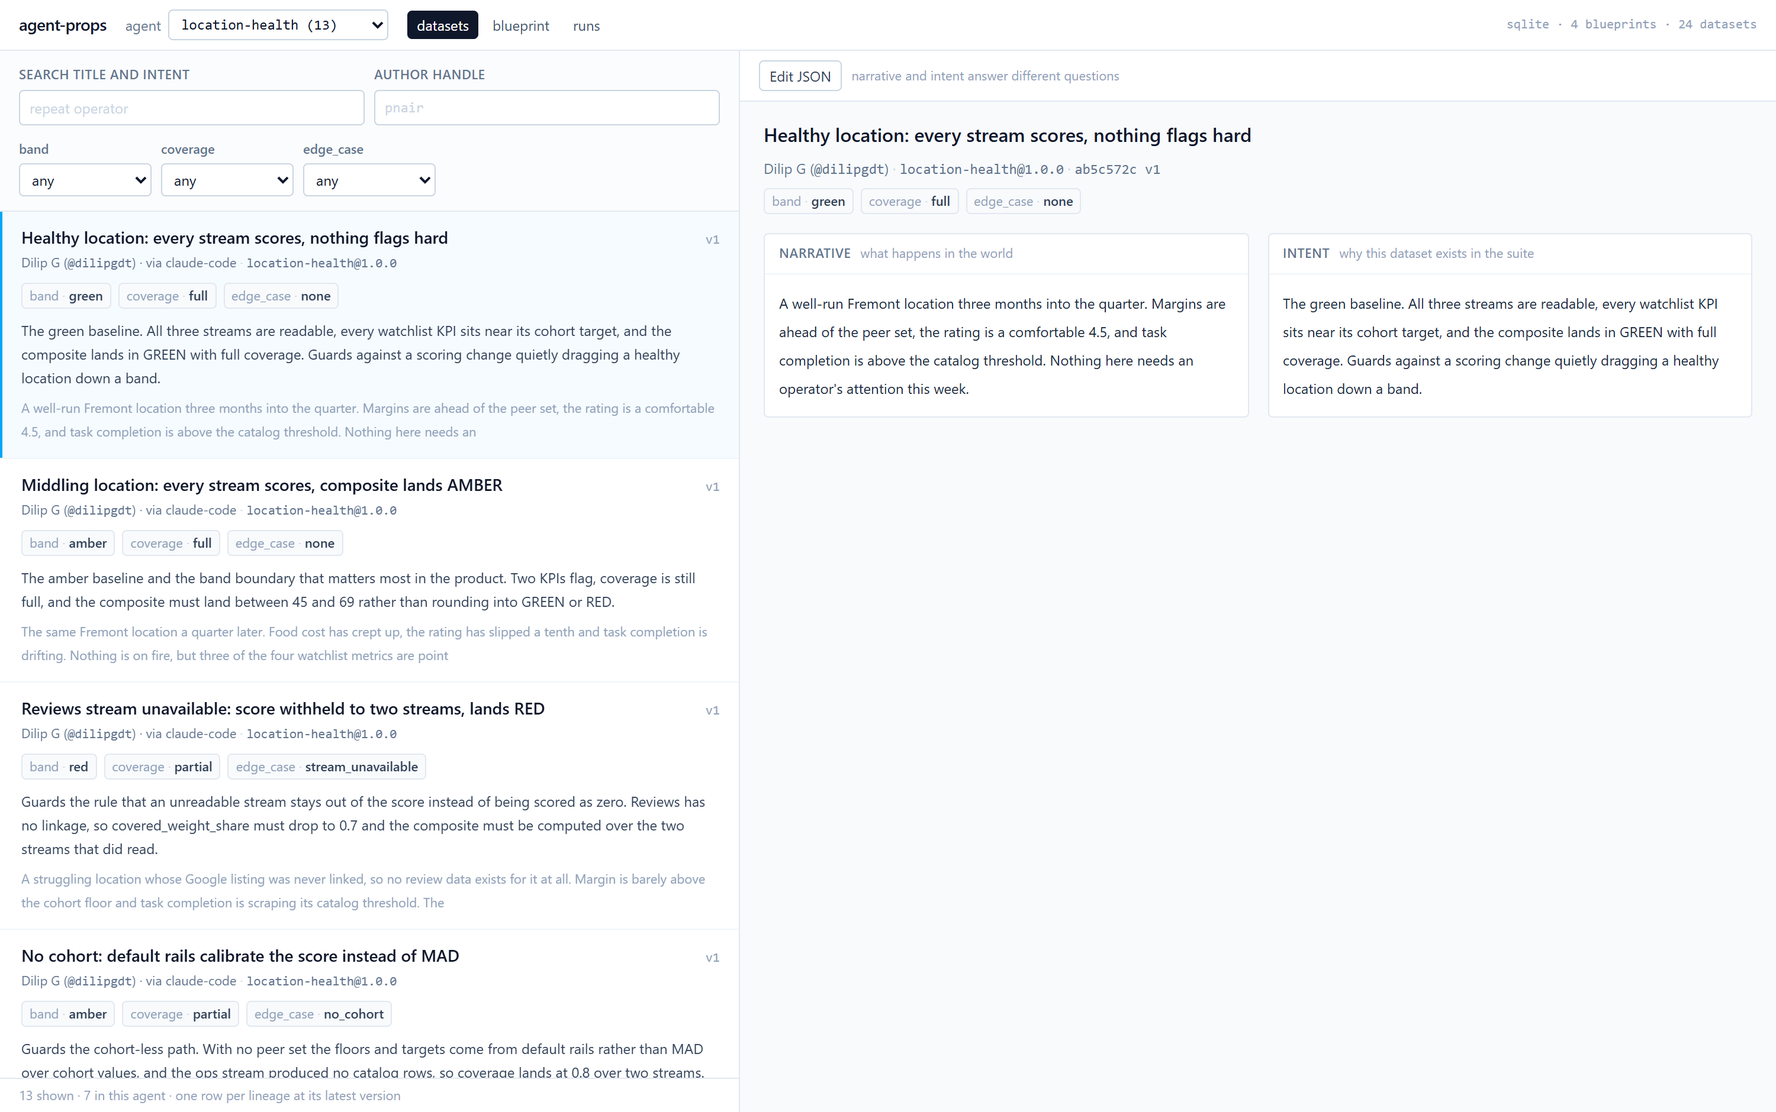
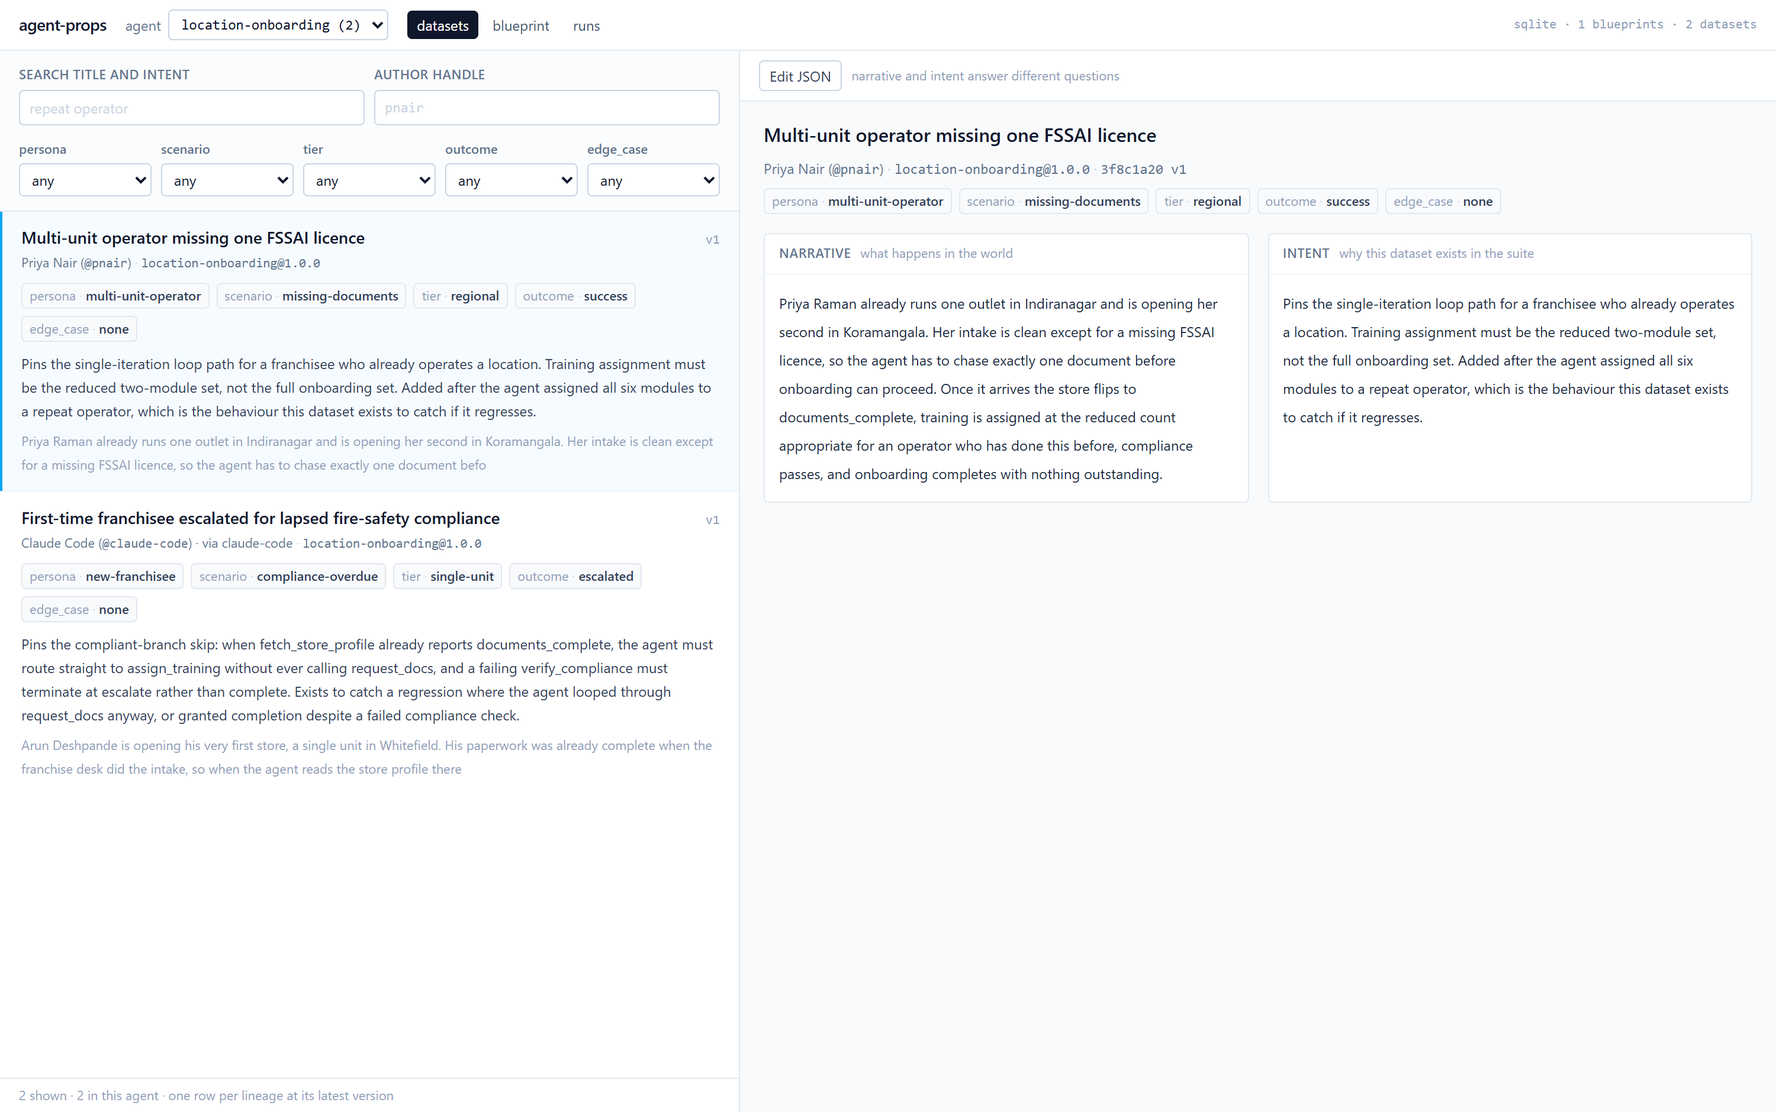
chore: remove company identifiers and machine-specific paths
Ahead of publishing. Three passes:

The worked example's tool namespace becomes acme.* - nobody mistakes acme for
a real vendor. Ruling R-44 pins tests/fixtures byte-exact to
docs/worked-example.md, so both sides moved together and that guard is what
proved it; 58 occurrences across 17 files.

Prose naming the owning company and its AI unit becomes the role each was
standing for. docs/prd.md and docs/build-handoff.md.

Absolute paths to one checkout become /path/to/agent-props, with a line saying
so, and the run driver now looks for Chrome in the usual places per platform
before falling back to Playwright's own Chromium - it hardcoded one Windows
path, which made the skill unusable anywhere else. SKILL.md loses the
"this machine" framing and two stale test counts.

All five README screenshots re-shot from a store seeded only from
tests/fixtures, because the earlier set showed a real agent's tool names and a
real author handle.

diff --git a/.claude/skills/run-agent-props/driver.py b/.claude/skills/run-agent-props/driver.py
@@ -31,12 +31,25 @@ from pathlib import Path
 WEB = "http://127.0.0.1:5173"
 SERVICE_PORT = 8000
 WEB_PORT = 5173
-# NOT /tmp: on this host `/tmp` resolves differently under Git Bash than under
-# Python, so a screenshot the driver wrote could not be found by a shell `ls`.
-# Repo-relative is unambiguous for both. Gitignored.
+# NOT /tmp: under Git Bash on Windows, `/tmp` resolves to a different
+# directory in the shell than it does in Python, so a screenshot the driver
+# wrote could not be found by a shell `ls`. Repo-relative is unambiguous on
+# every platform. Gitignored.
 SHOTS = Path(__file__).resolve().parents[3] / ".shots"
-# The Chrome that ships with Windows/WSL hosts. Override with AGENTPROPS_CHROME.
-CHROME = "C:/Program Files/Google/Chrome/Application/chrome.exe"
+# Where an already-installed Chrome usually lives, per platform. Tried in order;
+# AGENTPROPS_CHROME overrides all of them, and if none exists the driver falls
+# back to Playwright's own bundled Chromium (`playwright install chromium`).
+# Using a browser already on disk is only an optimisation - it avoids a second
+# ~150 MB download - so it must not be a requirement.
+CHROME_CANDIDATES = (
+    "C:/Program Files/Google/Chrome/Application/chrome.exe",
+    "C:/Program Files (x86)/Google/Chrome/Application/chrome.exe",
+    "/Applications/Google Chrome.app/Contents/MacOS/Google Chrome",
+    "/usr/bin/google-chrome",
+    "/usr/bin/chromium",
+    "/usr/bin/chromium-browser",
+    "/snap/bin/chromium",
+)
 
 
 def listening(port: int) -> bool:
@@ -59,15 +72,32 @@ def require_up() -> None:
         )
 
 
+def chrome_path() -> str | None:
+    """An installed Chrome, or None to let Playwright use its own Chromium.
+
+    Returns None rather than raising when nothing matches: a missing system
+    Chrome is not an error, it just means Playwright downloads one. Raising here
+    would make the driver unusable on any machine but the one it was written on.
+    """
+    import os
+
+    override = os.environ.get("AGENTPROPS_CHROME")
+    if override:
+        return override
+    for candidate in CHROME_CANDIDATES:
+        if Path(candidate).exists():
+            return candidate
+    return None
+
+
 def browser(pw):
     # `pw` is untyped on purpose: playwright is an ephemeral --with install,
     # so importing its types at module scope would break `up`, which must run
     # without it.
-    import os
-
+    found = chrome_path()
     return pw.chromium.launch(
-        executable_path=os.environ.get("AGENTPROPS_CHROME", CHROME),
         headless=True,
+        **({"executable_path": found} if found else {}),
     )
 
 

diff --git a/tests/unit/test_service_resolution.py b/tests/unit/test_service_resolution.py
@@ -7,7 +7,7 @@ without walking it there.
 
 The property M8's script exists to prove is
 :func:`test_one_tool_name_resolves_to_two_nodes_depending_on_position`, and it
-asserts **both** directions in one test on purpose: ``delightree.stores.get``
+asserts **both** directions in one test on purpose: ``acme.stores.get``
 must resolve to ``fetch_store_profile`` early and to ``recheck_store`` after the
 loop. Either half passing alone would be satisfied by a resolver that always
 answered the same node.
@@ -29,11 +29,11 @@ from agentprops.service.resolution import candidates_for, head_of, resolve, succ
 #: ``fetch_store_profile`` and on ``recheck_store``. Position is the only thing
 #: that can tell them apart, which is why the run id matters even for tool-name
 #: addressing (PRD 5.5's rule 3).
-REPEATED_TOOL = "delightree.stores.get"
+REPEATED_TOOL = "acme.stores.get"
 
 #: A tool name exactly one node declares, so it resolves at step 2 without any
 #: position at all.
-UNIQUE_TOOL = "delightree.docs.request"
+UNIQUE_TOOL = "acme.docs.request"
 
 FROZEN_AT = datetime(2026, 9, 8, 12, 0, 0, tzinfo=UTC)
 
@@ -106,7 +106,7 @@ def test_a_unique_tool_name_resolves_without_a_position(blueprint: Blueprint) ->
 
 
 def test_an_unknown_tool_name_is_rt_e02(blueprint: Blueprint) -> None:
-    resolved, findings = resolve(blueprint, run_at(), tool_name="delightree.stores.list")
+    resolved, findings = resolve(blueprint, run_at(), tool_name="acme.stores.list")
     assert resolved is None
     assert [finding.rule for finding in findings] == [RT_E02]
     assert findings[0].pointer == "/tool_name"
@@ -186,10 +186,10 @@ def test_two_candidates_reachable_in_one_hop_are_also_rt_e01(
     document = copy.deepcopy(blueprint_document)
     for node in document["nodes"]:
         if node["id"] in {"request_docs", "assign_training"}:
-            node["tool_name"] = "delightree.both.ways"
+            node["tool_name"] = "acme.both.ways"
     graph = Blueprint.model_validate(document)
 
-    resolved, findings = resolve(graph, run_at("check_docs"), tool_name="delightree.both.ways")
+    resolved, findings = resolve(graph, run_at("check_docs"), tool_name="acme.both.ways")
     assert resolved is None
     assert [finding.rule for finding in findings] == [RT_E01]
     assert findings[0].context["candidates"] == ["request_docs", "assign_training"]

diff --git a/tests/unit/test_service_run_writes.py b/tests/unit/test_service_run_writes.py
@@ -76,7 +76,7 @@ RUN_ID = "m8-priya-run"
 PRIYA = "3f8c1a20-0000-4000-8000-000000000001"
 
 #: The tool name ``fetch_store_profile`` and ``recheck_store`` share.
-REPEATED_TOOL = "delightree.stores.get"
+REPEATED_TOOL = "acme.stores.get"
 
 POOL_NODE = "request_docs"
 POOL_LENGTH = len(load_document("datasets/priya-missing-docs.json")["pools"][POOL_NODE])
@@ -149,7 +149,7 @@ def test_the_record_key_is_the_resolved_one(started: ServiceContext) -> None:
     """Ruling R-64's "the same key means the same step", on the write side.
 
     The step is fetched by **tool name** from the entry node - where
-    ``delightree.stores.get`` resolves to ``fetch_store_profile`` - and recorded
+    ``acme.stores.get`` resolves to ``fetch_store_profile`` - and recorded
     by **node id**. One step, one row, one actual. A ``record_step`` that keyed
     on the argument shape rather than on the resolved node would report
     ``AP-004`` here.
@@ -280,7 +280,7 @@ def test_the_unserved_pointer_follows_the_argument_the_caller_used(
     request - and ``resolved_node_id`` in the context is how the caller learns
     which node the key was built from.
     """
-    reply = record(started, {"compliant": True}, tool_name="delightree.compliance.check")
+    reply = record(started, {"compliant": True}, tool_name="acme.compliance.check")
     assert rules(reply) == ["AP-004"]
     finding = findings(reply)[0]
     assert finding.pointer == "/tool_name"

diff --git a/tests/unit/test_client_run.py b/tests/unit/test_client_run.py
@@ -274,13 +274,13 @@ async def test_the_two_clients_send_identical_requests() -> None:
     asynchronous = async_client(async_recorder)
 
     sync.run_start({"dataset_id": "d"}, run_class="eval")
-    sync.fetch_step(tool_name="delightree.stores.get")
+    sync.fetch_step(tool_name="acme.stores.get")
     sync.fetch_step(node_id="request_docs", iteration=1)
     sync.record_step({"a": 1}, node_id="request_docs", iteration=1)
     sync.run_finish({"onboarding_status": "complete"}, status=STATUS_ABANDONED)
 
     await asynchronous.run_start({"dataset_id": "d"}, run_class="eval")
-    await asynchronous.fetch_step(tool_name="delightree.stores.get")
+    await asynchronous.fetch_step(tool_name="acme.stores.get")
     await asynchronous.fetch_step(node_id="request_docs", iteration=1)
     await asynchronous.record_step({"a": 1}, node_id="request_docs", iteration=1)
     await asynchronous.run_finish({"onboarding_status": "complete"}, status=STATUS_ABANDONED)

diff --git a/tests/unit/test_runtime_is_read_only.py b/tests/unit/test_runtime_is_read_only.py
@@ -748,12 +748,12 @@ def test_a_whole_runtime_walk_makes_no_world_write(guarded: ServiceContext) -> N
         return runs.fetch_step(guarded, RUN_ID, **arguments)
 
     step(node_id="receive_request")
-    step(tool_name="delightree.stores.get")
+    step(tool_name="acme.stores.get")
     step(node_id="check_docs")
-    step(tool_name="delightree.stores.get")
+    step(tool_name="acme.stores.get")
     step(node_id=POOL_NODE, iteration=0)
     step(node_id=POOL_NODE, iteration=1)
-    step(tool_name="delightree.stores.get")
+    step(tool_name="acme.stores.get")
     step(node_id=POOL_NODE, iteration=2)
     step(node_id=POOL_NODE, iteration=0)
     step(node_id=POOL_NODE, iteration=MAX_STORED_INT + 1)

diff --git a/tests/unit/test_tools_run_contract.py b/tests/unit/test_tools_run_contract.py
@@ -34,7 +34,7 @@ AGENT = "location-onboarding"
 RUN_ID = "m6-wire-run"
 PRIYA = "3f8c1a20-0000-4000-8000-000000000001"
 POOL_NODE = "request_docs"
-REPEATED_TOOL = "delightree.stores.get"
+REPEATED_TOOL = "acme.stores.get"
 
 
 @pytest.fixture
@@ -285,7 +285,7 @@ async def test_record_step_and_run_finish_over_the_wire(seeded: ServiceContext) 
             "record_step",
             run_id=RUN_ID,
             actual={"store_id": "store_bengaluru_04", "franchisee": "priya"},
-            tool_name="delightree.onboarding.intake",
+            tool_name="acme.onboarding.intake",
         )
         assert recorded["ok"] is True
         assert set(recorded["data"]) == {"record"}

diff --git a/src/agentprops/service/resolution.py b/src/agentprops/service/resolution.py
@@ -27,7 +27,7 @@ Why position is the only disambiguator
 PRD 5.5's rule 3 - "among nodes reachable from the current path head, pick the
 one declaring that tool" - is what makes the run id load-bearing for tool-name
 addressing: *without a known position, a repeated tool is unresolvable*. The
-golden blueprint is the case in point. ``delightree.stores.get`` is declared by
+golden blueprint is the case in point. ``acme.stores.get`` is declared by
 both ``fetch_store_profile`` and ``recheck_store``, and the M8 script calls it
 twice by tool name expecting two different answers:
 

diff --git a/tests/unit/test_service_evidence.py b/tests/unit/test_service_evidence.py
@@ -206,7 +206,7 @@ def test_the_node_kind_and_tool_name_come_from_the_blueprint(walked: ServiceCont
     live = data(evidence(walked, RUN_ID))["evidence"]
     kinds = {node["node_id"]: (node["kind"], node["tool_name"]) for node in live["nodes"]}
     assert kinds["check_docs"] == ("decision", None)
-    assert kinds["fetch_store_profile"] == ("tool_call", "delightree.stores.get")
+    assert kinds["fetch_store_profile"] == ("tool_call", "acme.stores.get")
     assert kinds["complete"] == ("terminal", None)
 
 

diff --git a/tests/unit/test_service_runs.py b/tests/unit/test_service_runs.py
@@ -65,7 +65,7 @@ PRIYA = "3f8c1a20-0000-4000-8000-000000000001"
 ARUN = "3f8c1a20-0000-4000-8000-000000000002"
 
 #: The tool name ``fetch_store_profile`` and ``recheck_store`` share.
-REPEATED_TOOL = "delightree.stores.get"
+REPEATED_TOOL = "acme.stores.get"
 
 #: The golden loop node and the length of its pool. **Two** entries, so
 #: exhaustion begins at iteration 2 (ruling R-52 corrects `worked-example.md`

diff --git a/tests/integration/test_worked_example_end_to_end.py b/tests/integration/test_worked_example_end_to_end.py
@@ -97,7 +97,7 @@ BLUEPRINT_VERSION: Final = "1.0.0"
 
 #: The tool name ``fetch_store_profile`` and ``recheck_store`` share. Step 7's
 #: two tool-name calls are both this, and they must resolve to different nodes.
-REPEATED_TOOL: Final = "delightree.stores.get"
+REPEATED_TOOL: Final = "acme.stores.get"
 
 POOL_NODE: Final = "request_docs"
 

diff --git a/docs/prd.md b/docs/prd.md
@@ -5,7 +5,7 @@ A blueprint-driven narrative fixture and golden-dataset service for agentic syst
 Revision: v0.5
 Date: 2026-09-08
 Owner: Dilipg
-Home: Delightree, Astra AI unit (eval infrastructure)
+Home: an internal AI platform team (eval infrastructure)
 
 ---
 
@@ -57,17 +57,17 @@ Positioning line to test: *record-and-replay can only test what already happened
 | Real data | **Fake only in phase 1.** | No PII means no redaction, no residency question, no security review. |
 | Access control | **None. Flat, single-tenant, no auth.** | Internal tool for dev, product and QA. Enforced by the fake-only rule and internal-only deployment, not by permissions. |
 | CI behaviour | **Never gates. Records only.** | It provisions data and records what happened. Teams build their own gates on top. |
-| Client library | **Python only in phase 1.** ~~TypeScript client is the closing milestone.~~ **The TypeScript client was descoped by the owner on 2026-09-09 — see `docs/spec-rulings.md` R-68. Phase 1 ends at M10.** | Astra's eval side is Python. TS follows for the product stack. |
+| Client library | **Python only in phase 1.** ~~TypeScript client is the closing milestone.~~ **The TypeScript client was descoped by the owner on 2026-09-09 — see `docs/spec-rulings.md` R-68. Phase 1 ends at M10.** | The eval side is Python. TS follows for the product stack. |
 | Authoring UI | **JSON editor with live schema validation**, not a graph builder. | Cheapest thing that works. Library recommendation in 10.4. |
 | CLI | **Deferred out of phase 1.** | The MCP server, the Python client and the web app cover the phase 1 jobs. No daemon-mode question to answer yet. |
-| Distribution | **Delightree internal first**, open source later. | Astra is the design partner and the requirement source. |
+| Distribution | **Internal first**, open source later. | The platform team is the design partner and the requirement source. |
 | Design partner | **A cross-domain ops workflow** (onboarding a new location: tasks, training, compliance). | The hardest coherence test, therefore the best proof. |
 
 ## 4. Users
 
 | User | Job | Touchpoint |
 |---|---|---|
-| Agent developer (Astra + domain pods) | Author a blueprint; develop against realistic data instead of production | React app, CLI, MCP |
+| Agent developer (platform and domain teams) | Author a blueprint; develop against realistic data instead of production | React app, CLI, MCP |
 | Coding agent (Claude Code, Codex) | Fetch a skeleton, write the story, post the filled dataset back | MCP tools |
 | Runtime agent | Fetch step data during an execution | Client library, MCP |
 | QA / eval engineer | Select datasets by label; grade runs against expected outcomes; compare model versions | CLI, MCP, exported experiments |
@@ -93,7 +93,7 @@ Blueprint {
 
 Node {
   id: string                  // "fetch_store_profile"
-  tool_name?: string          // "delightree.stores.get" — enables tool-name addressing
+  tool_name?: string          // "acme.stores.get" — enables tool-name addressing
   kind: "tool_call" | "llm" | "decision" | "loop" | "terminal"
   input_schema: JSONSchema
   output_schema: JSONSchema
@@ -336,8 +336,8 @@ One adapter interface, three implementations.
 | Target | Use | Config |
 |---|---|---|
 | SQLite | Local dev, CI, zero setup | file path |
-| Postgres | Delightree default, matches the rebuild | DSN or discrete credentials |
-| Mongo | Legacy Delightree, document-native fit for fixtures | connection URI |
+| Postgres | The team default, matches the rebuild | DSN or discrete credentials |
+| Mongo | Legacy deployments, document-native fit for fixtures | connection URI |
 
 Config accepts a connection string or discrete credentials, plus Docker parameters so the service can stand up its own store for local and CI use. Blueprints, datasets and runs are separable: a team may keep blueprints in git and only datasets in the store.
 
@@ -385,7 +385,7 @@ Stated explicitly so they do not creep back in:
 
 ## 10. Phasing
 
-**Phase 1: the fixture factory** (internal, Astra)
+**Phase 1: the fixture factory** (internal)
 Blueprint CRUD, validation and versioning. Full-graph topology. Entity-based coherence with optional revisions. Typed labels. Outcome schema and expected outcomes. Skeleton handoff with partial fills and validated submit. Label query retrieval. Dataset versioning, copy-on-write and archive. Three storage adapters. Shared and local-container deployment with an export and import promotion path. **Python client** issuing idempotent run ids and shipping the three comparison helpers as pure functions. React browsing app with a JSON editor and live validation. Read-only step fetch. Run linkage and fixture chain published outward to Langfuse or OTel.
 
 Exit criteria: the location-onboarding workflow has a published blueprint; at least 20 datasets covering the declared label space, each with an expected outcome; a domain pod develops against fixtures instead of production for a full sprint without falling back.

diff --git a/.claude/skills/run-agent-props/SKILL.md b/.claude/skills/run-agent-props/SKILL.md
@@ -11,18 +11,19 @@ service directly — ruling R-70 measured it (`OPTIONS /mcp` → 405, no `access
 headers), so same-origin is the only shape that works.
 
 Drive the UI with the committed driver:
-**`.claude/skills/run-agent-props/driver.py`** (Playwright over the Chrome already on
-disk). `chromium-cli` is **not** installed on this machine, which is why a driver exists.
+**`.claude/skills/run-agent-props/driver.py`** (Playwright, reusing an installed Chrome
+when it finds one). The driver exists because the app has no router, so no URL can
+reach any state but the landing one - see the first gotcha.
 
 All paths below are relative to the repo root.
 
 ## Prerequisites
 
-`uv`, `node`/`npx`, and Chrome at
-`C:/Program Files/Google/Chrome/Application/chrome.exe` (override with
-`AGENTPROPS_CHROME`). No `apt-get` needed — this is a Windows host with Git Bash.
+`uv` and `node`/`npx`. The driver looks for an installed Chrome in the usual places per
+platform, honours `AGENTPROPS_CHROME` if set, and otherwise falls back to Playwright's
+own Chromium (`playwright install chromium`).
 
-`web/node_modules` was already present here. If yours is empty, install in `web/` first.
+Run `npm install` in `web/` first if `web/node_modules` is missing.
 
 ## Run (agent path)
 
@@ -51,8 +52,8 @@ store ready at demo.db
 
 ```bash
 nohup uv run python -m agentprops.server --transport http --store demo.db \
-  --host 127.0.0.1 --port 8000 > /tmp/svc.log 2>&1 &
-cd web && nohup npx vite --host 127.0.0.1 --port 5173 --strictPort > /tmp/web.log 2>&1 &
+  --host 127.0.0.1 --port 8000 > .shots/svc.log 2>&1 &
+cd web && nohup npx vite --host 127.0.0.1 --port 5173 --strictPort > ../.shots/web.log 2>&1 &
 ```
 
 **Both will report "completed" immediately** — `nohup` detaches them. Do not trust that;
@@ -120,8 +121,8 @@ judging design; useless headless.
 ## Test
 
 ```bash
-uv run pytest -q                 # 1609 passed / 31 skipped, containerless
-cd web && npx vitest run         # 72 passed / 7 files
+uv run pytest -q                 # containerless; backend suites skip with a reason
+cd web && npx vitest run         # the web app's own suite
 ```
 
 Backend suites need containers on the **non-default** ports 27117 / 5442 (ruling R-60 —
@@ -141,14 +142,14 @@ backend count** — a backend number without its URL is not a claim.
   taken with different `?q=` / `?view=` came back **byte-identical** (82343 bytes each).
   You must interact with the page; `--screenshot` alone cannot reach any state but the
   landing one. This is why the driver exists.
-- **`chromium-cli` is absent, and the `playwright` on PATH is a Node CLI** (v1.40.1, via
-  bun) — not the Python package. `uv run --with playwright` installs the Python one
-  ephemerally without touching `pyproject.toml`, and the driver passes `executable_path`
-  so Playwright does not download a second browser.
-- **`/tmp` is ambiguous here.** It resolves to a different directory under Git Bash than
-  under Python, so screenshots the driver wrote could not be found by a shell `ls`. The
-  driver uses repo-relative `.shots/` for exactly this reason. Do not "simplify" it back
-  to `/tmp`.
+- **A `playwright` on PATH may be the Node CLI, not the Python package.** `uv run --with
+  playwright` installs the Python one ephemerally without touching `pyproject.toml`, and
+  the driver reuses an installed Chrome when it finds one so Playwright need not download
+  a second browser.
+- **`/tmp` is ambiguous under Git Bash on Windows.** It resolves to a different directory
+  in the shell than in Python, so screenshots the driver wrote could not be found by a
+  shell `ls`. The driver uses repo-relative `.shots/` for exactly this reason. Do not
+  "simplify" it back to `/tmp`.
 - **The favicon 404's console text never names the file.** Chrome logs
   `Failed to load resource: ... 404`, so a filter on `"favicon.ico"` matches nothing and
   every clean run looks like it has an error. The driver filters on the response URL as
@@ -167,7 +168,7 @@ backend count** — a backend number without its URL is not a claim.
 
 | Symptom | Fix |
 |---|---|
-| `not listening: web :5173` from the driver | The Vite process died. `tail /tmp/web.log`. |
+| `not listening: web :5173` from the driver | The Vite process died. `tail .shots/web.log`. |
 | Driver screenshots exist but `ls` cannot find them | You edited `SHOTS` back to `/tmp`. See the path gotcha. |
 | `ModuleNotFoundError: No module named 'playwright'` | You dropped `--with playwright` from the `uv run`. |
 | Every driver run reports one console error | The favicon filter was removed; see the 404 gotcha. |
